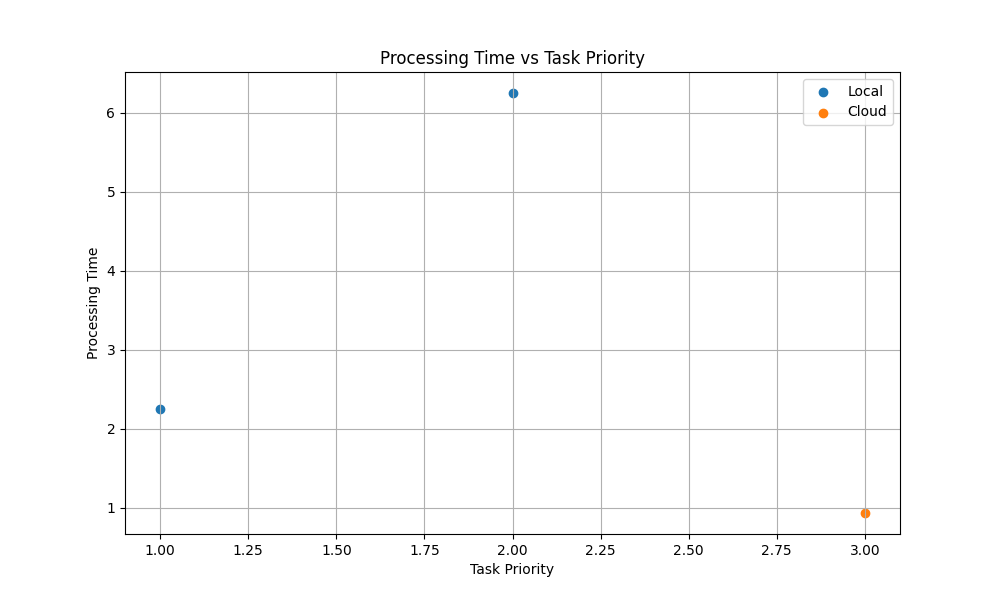
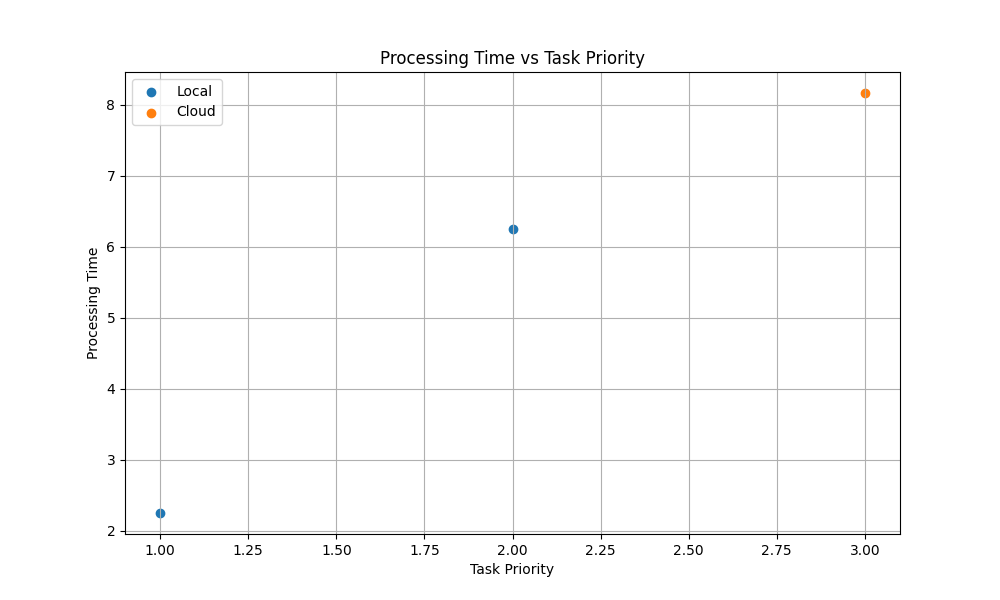
updating naming to be like the thesis

diff --git a/training.py b/training.py
@@ -64,7 +64,31 @@ class RLAgent:
 
 
 class EdgeServer:
-    def __int__(self,env,name,cloud_env,cpu_power,mmemory,max_concurrent_tasks):
+    def __int__(self,env,name,cloud_env,cpu_power,memory,max_concurrent_tasks):
         self.env = env
         self.name = name
         self.cloud_env = cloud_env
+        self.memory = memory
+        self.task_queue = []
+        self.local_tasks = []
+        self.network = Network(env)
+        self.current_load = cpu_power * 2
+        self.max_concurrent_tasks = max_concurrent_tasks
+        self.current_task = 0
+
+
+    def add_task(self,task):
+        self.env.process(self.send_to_cloud(task))
+
+    def send_to_cloud(self,task):
+        transfer_time = self.network.transfer_time(task.data_size)
+        yield self.env.timeout(transfer_time)
+        self.cloud_env.receive_tasll(task, self)
+
+
+    def process_locally
+
+
+
+
+

diff --git a/ُEdgeServerLocalandOffload_stage_2.py b/ُEdgeServerLocalandOffload_stage_2.py
@@ -80,7 +80,7 @@ class CloudEnvironment:
 env = simpy.Environment()
 
 # Create cloud environment with specified capabilities
-cloud_env = CloudEnvironment(env, num_servers=1, cpu_power=16.0, memory=64)
+cloud_env = CloudEnvironment(env, num_servers=1, cpu_power=3.0, memory=16)
 
 # Create edge server with specified capabilities
 edge_server = EdgeServer(env, 'EdgeServer', cloud_env, cpu_power=2.0, memory=8)

diff --git a/EdgeServerLocalandOffload_stage_1.py b/EdgeServerLocalandOffload_stage_1.py
@@ -3,6 +3,7 @@ import pandas as pd
 import heapq
 
 # compare between task execution on cloud and local with task priority
+# stage 1
 class Task:
     def __init__(self, duration, complexity, priority):
         self.duration = duration
